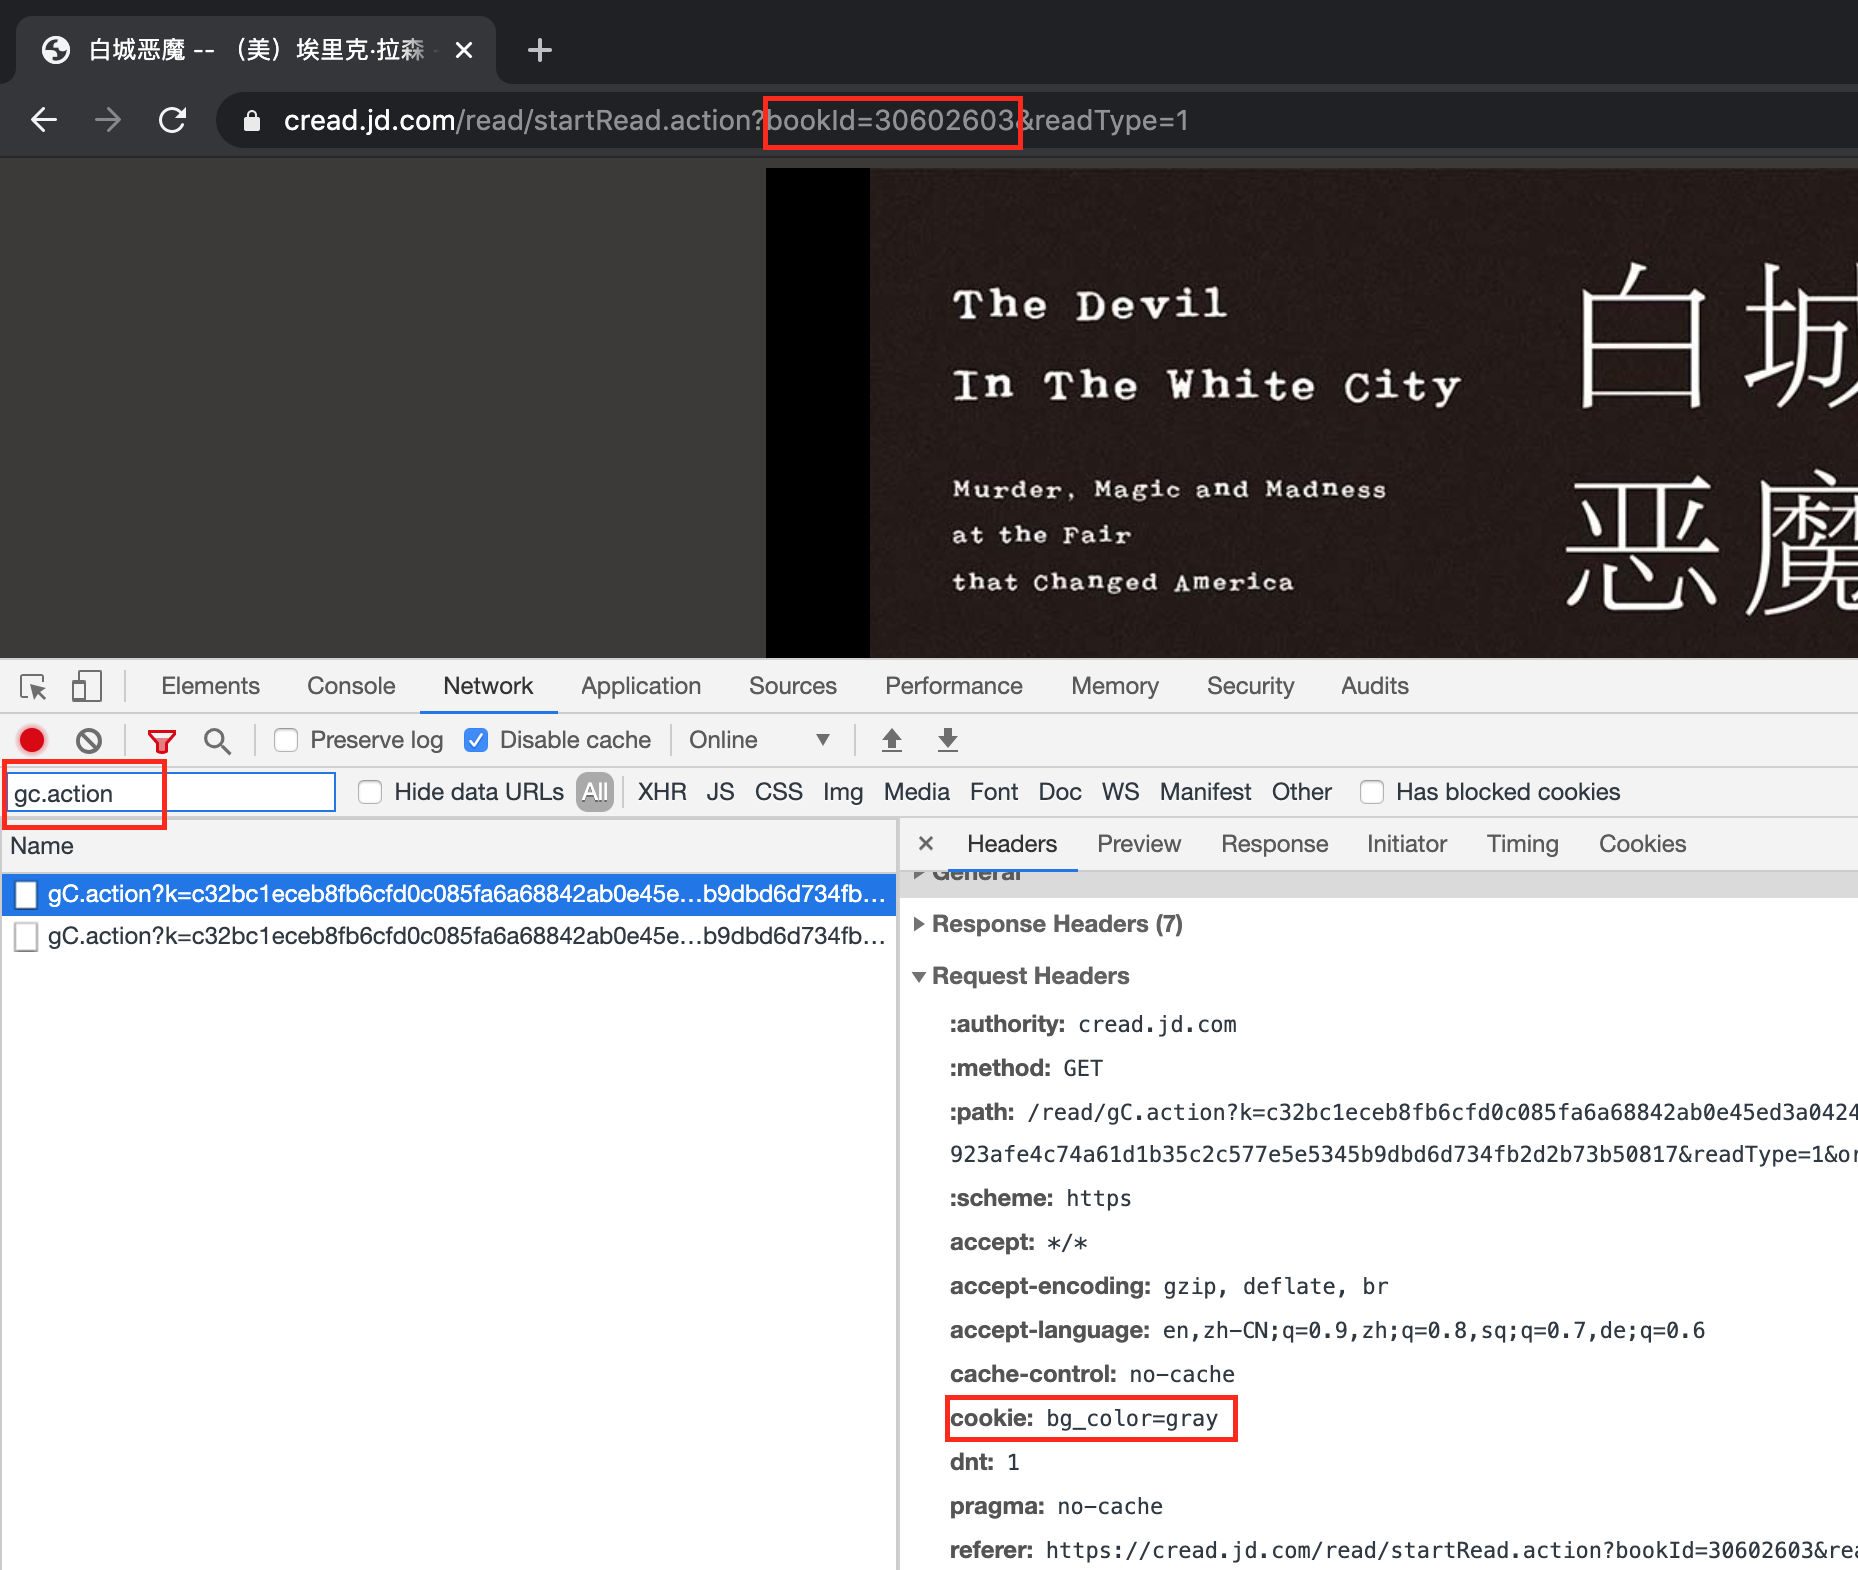
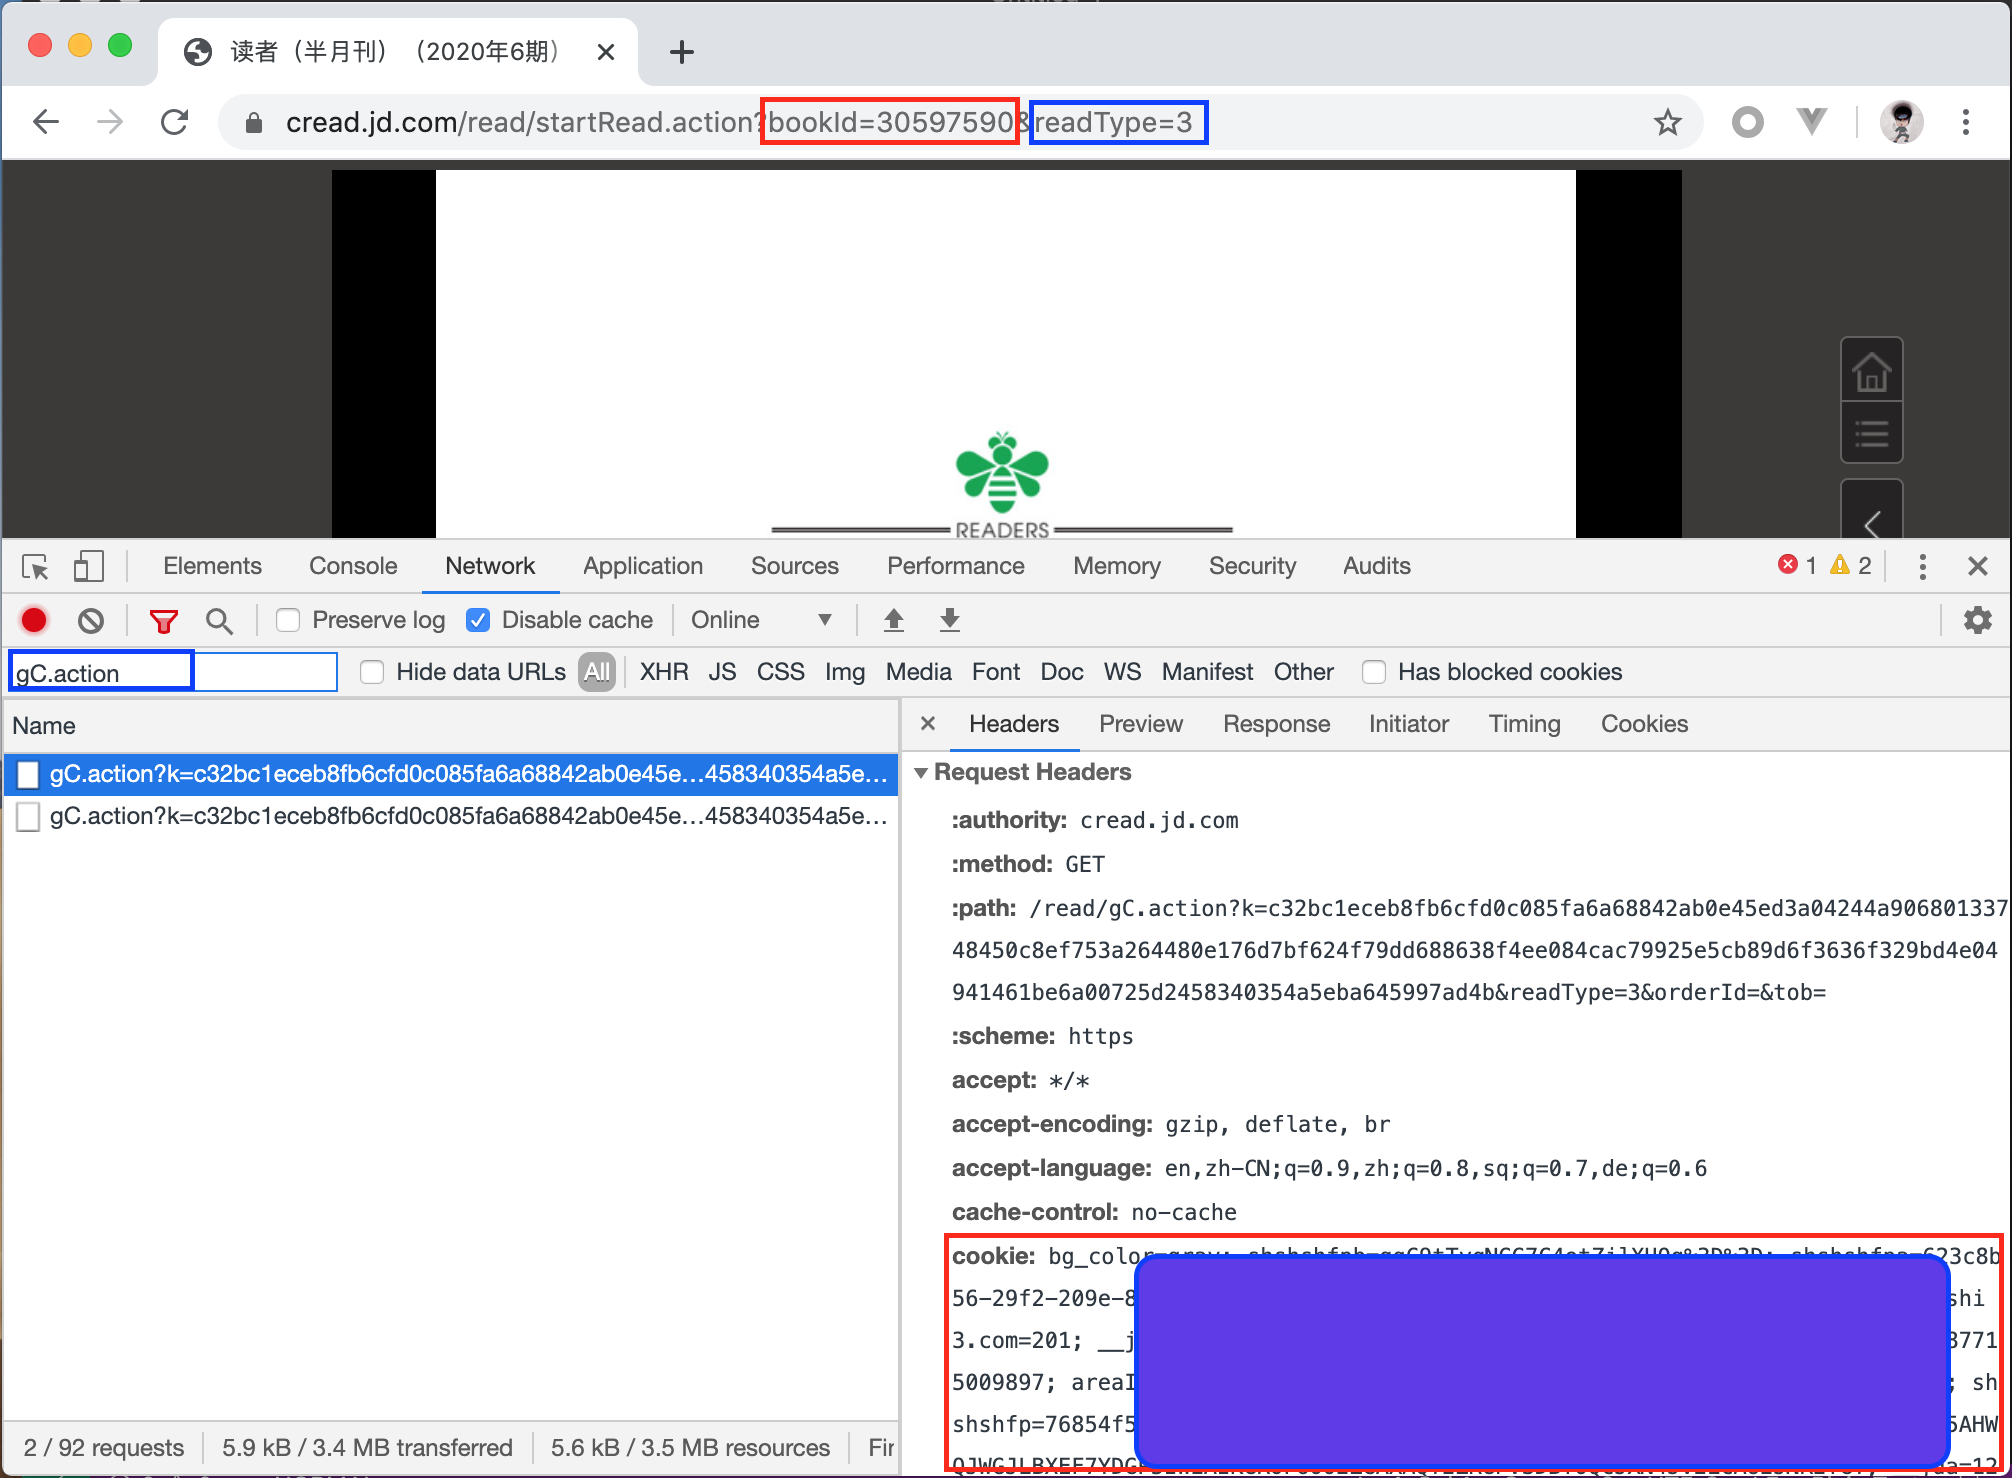
doc: 更新wiki

diff --git a/src/lib/config.ts b/src/lib/config.ts
@@ -12,6 +12,7 @@ export const CONFIG: Config = {
     BASE_DIR_RES: "",
     logger: new Log("default"),
     delay: PkgConfig.delay,
+    readType: PkgConfig.readType
 };
 
 export async function init(projectId?: string) {

diff --git a/README.md b/README.md
@@ -5,11 +5,11 @@
 ## 下载方法
 
 1. 将本项目clone到本地, 执行 `npm install` (国内环境可使用 `npm install --registry=https://registry.npm.taobao.org`).
-2. 进入京东登陆账号, 进入书籍在线阅读页面 ( 必须是有权限阅读的书 ), 打开浏览器开发者工具, 通过关键字`gC.action`过滤请求找到其中一个 `https://cread.jd.com/read/gC.action` 请求, 记下请求的 `cookie` 全部值(每个人的不一样), 以及请求参数的 `bookId` 值:
-![request](./res/request.png), 将值全部配置到项目根目录的 `package.json` 文件的 `config` 配置节.
+2. 进入京东登陆账号, 进入[已购书记列表](https://cread.jd.com/buyedEbook/buyedEbook_myBuyedBookList.action)选择 __立即阅读__ ( 必须是有权限阅读的书 ), 打开浏览器开发者工具, 通过关键字`gC.action`过滤请求找到其中一个 `https://cread.jd.com/read/gC.action` 请求, 复制请求的 `cookie` 全部值(每个人的不一样), 以及请求参数的 `bookId` 值:
+![request](./res/request.png), 配置到项目根目录的 `package.json` 文件的 `config` 配置节.
 3. 项目根目录打开终端/控制台执行 `npm run download`
 4. `logs/` 目录下有下载进度日志, 下载内容会保存到 `books/` 目录.
-5. 特别注意的是  `package.json > config > readType`, 如果是试读下载, 值改成1; 如果是畅读会员下载, 值改成3.
+5. 特别注意的是  `package.json > config > readType`, 如果是试读下载, 值改成1; 如果是畅读会员下载, 值改成3, 一般默认是3.
 
 ## 阅读
 
